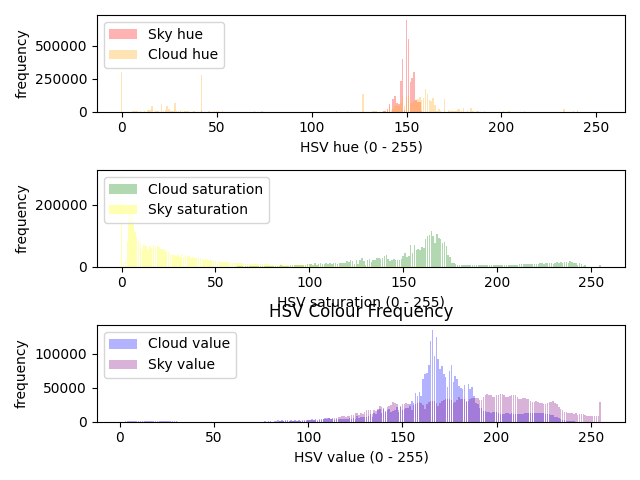
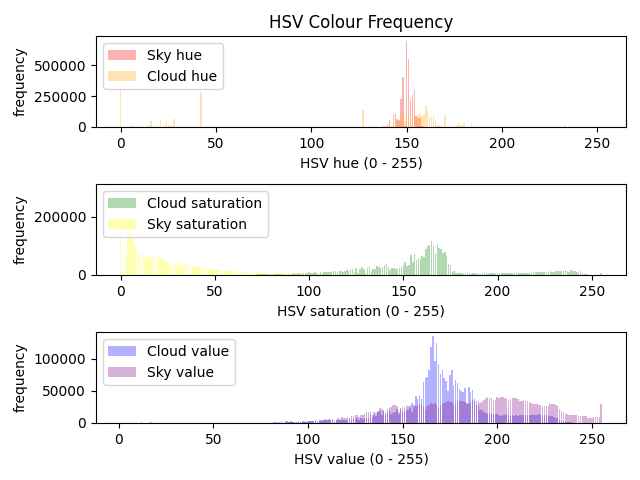
_____

diff --git a/src/scripts/analysis/multichannel_pca.py b/src/scripts/analysis/multichannel_pca.py
@@ -1,15 +1,12 @@
 from sklearn.decomposition import PCA
 from sklearn.preprocessing import StandardScaler
-from sklearn.preprocessing import normalize
 import matplotlib.pyplot as plt
 from concurrent.futures import ProcessPoolExecutor
 
 from config import *
-from extract import process_images, get_tags
-
+from extract import *
 
 sub_graph_dir = f"PCA/{camera}"
-
 
 
 def pca(sky_folder:str, cloud_folder:str, colour_index: int) -> None:
@@ -17,22 +14,15 @@ def pca(sky_folder:str, cloud_folder:str, colour_index: int) -> None:
     Graph the Principle components. 
     The principle components depend on the color channels used.
     """
-    temp = get_tags(colour_index)
-
-    #debug(temp)
-
-    components = temp[0] 
-    colour_tag = temp[1]
-    del temp
-
-    #debug(colour_tag)
-
-    # n_components = len(components)
+    tags = get_tags(colour_index)
+    components = tags[0]
+    colour_tag = tags[1]
+    del tags
 
     # Process images
     data_sky = process_images(sky_folder, colour_index)
     data_cloud = process_images(cloud_folder, colour_index)
-
+    
     # Standardize the data
     scaler = StandardScaler()
     data_sky_standardized = scaler.fit_transform(data_sky)
@@ -52,36 +42,46 @@ def pca(sky_folder:str, cloud_folder:str, colour_index: int) -> None:
     # Get the explained variance ratios
     explained_variance_sky = pca_sky.explained_variance_ratio_
     explained_variance_cloud = pca_cloud.explained_variance_ratio_
-
-    # Delete unneeded ararys
+    
+    # Create Scree Plot for both datasets in a single plot.
+    plot_scree([explained_variance_sky, explained_variance_cloud], [f"Sky - {colour_tag}", f"Cloud - {colour_tag}"], colour_tag)
     del data_cloud, data_sky, pca_cloud, pca_sky, data_sky_standardized, data_cloud_standardized
     collect()
 
     # Print the Eigenvectors
-    debug(f"\nEigenvectors {colour_index} : {colour_tag} - Sky:")
+    debug(f"\nEigenvectors {colour_tag} - Sky:")
     for i in range(len(components)):
         debug(f"{components[i]}: {eigenvectors_sky[0, i]:.4f}")
 
 
-    debug(f"\nPrincipal Component {colour_index} : {colour_tag} - Cloud:")
+    debug(f"\nPrincipal Component {colour_tag} - Cloud:")
     for i in range(len(components)):
         debug(f"{components[i]}: {eigenvectors_cloud[0, i]:.4f}")
     
+    
     # Print the Variance ratios
-    debug(f"\nVariance ratios {colour_index} : {colour_tag} - Sky:")
+    debug(f"\nVariance ratios {colour_tag} - Sky:")
     for i, ratio in enumerate(explained_variance_sky):
         debug(f"Component {i+1}: {ratio:.4f}")
 
 
-    debug(f"\nVariance ratios {colour_index} : {colour_tag} - Cloud:")
+    debug(f"\nVariance ratios {colour_tag} - Cloud:")
     for i, ratio in enumerate(explained_variance_cloud):
         debug(f"Component {i+1}: {ratio:.4f}")
 
     del eigenvectors_cloud, eigenvectors_sky, explained_variance_cloud, explained_variance_sky
-    collect()
 
-    # Create Scatterplot
-    debug(f"\nCreating {colour_index} : {colour_tag} PCA ScatterPlot ...")
+    # Plot the PCA graph
+    # debug(pca_result_cloud[:, 0])
+    plot_pca(colour_tag, pca_result_cloud, pca_result_sky)
+    collect()      
+    
+    
+def plot_pca(colour_tag: str, pca_result_cloud: np.array, pca_result_sky: np.array) -> None:
+    """"
+    Plot PCA Scatterplot 
+    """
+    debug(f"\nCreating {colour_tag} PCA ScatterPlot ...")
     _,ax = plt.subplots(figsize=(10,6))
     ax.scatter(pca_result_sky[:, 0], pca_result_sky[:, 1], c='b', alpha = 0.1, marker = 'X', label = 'sky value')
     ax.scatter(pca_result_cloud[:, 0], pca_result_cloud[:, 1], c='r', alpha = 0.1, marker = 'X', label = 'cloud value')
@@ -90,16 +90,46 @@ def pca(sky_folder:str, cloud_folder:str, colour_index: int) -> None:
     plt.xlabel('PC1')
     plt.ylabel('PC2')
     plt.savefig(f"{root_graph_folder}/{sub_graph_dir}/new_pca_{camera}_{colour_tag}.png")
-    plt.clf
+    plt.clf  
+    
+    
+def plot_scree(explained_variance_list: list[list[float]], labels: list[str], colour_tag: str) -> None:
+    """
+    Plot Scree Plot based on explained variance ratios for multiple datasets.
+    """
+    fig, ax = plt.subplots(nrows = 2, ncols = 1)
+    ax = ax.flatten()
+    
+    explained_variance_sky = explained_variance_list[0]
+    explained_variance_cloud = explained_variance_list[1]
 
-    collect()      
+    ax[0].bar(range(1, len(explained_variance_sky) + 1), explained_variance_sky, label=labels[0])
+    ax[0].set_title("Scree Plot - Sky")
+    ax[0].set_xlabel('Principal Component')
+    ax[0].set_ylabel('Explained Variance Ratio')
+    ax[0].legend(loc = "upper right")
+    
+    ax[1].bar(range(1, len(explained_variance_cloud) + 1), explained_variance_cloud, label=labels[1])
+    ax[1].set_title("Scree Plot - Cloud")
+    ax[1].set_xlabel('Principal Component')
+    ax[1].set_ylabel('Explained Variance Ratio')
+    ax[1].legend(loc = "upper right")
+    
+    fig.tight_layout()
+    plt.legend()
+    plt.savefig(f"{root_graph_folder}/{sub_graph_dir}/new_scree_{camera}_{colour_tag}.png")
+    plt.clf()
+    
+    
 
 
 def main(colour_index: int) -> None:
     
     # PCA performed for RGB, HSV or YCbCr.
-    pca(sky_images_folder, cloud_images_folder, colour_index)
-
+    try:
+        pca(sky_images_folder, cloud_images_folder, colour_index)
+    except Exception as e:
+        debug(e)
     debug(f"Process {colour_index} done.")
 
 

diff --git a/src/scripts/analysis/extract.py b/src/scripts/analysis/extract.py
@@ -63,23 +63,9 @@ def process_images(folder_path:str, colour_index: int = 0) -> np.ndarray:
             continue
     
         im = Image.open(os.path.join(folder_path, filename))
-        keyword = "RGB"
         tag = get_tags(colour_index)[1]
 
-        match colour_index:
-
-            case 0:
-               __process = __process_RGB
-
-            case 1:
-                __process = __process_HSV
-
-            case 2:
-                __process = __process_YBR
-            
-            case _:
-               __process = __process_RGB
-
+        __process = get_func(colour_index)
 
         if tag != 'RGB':
             im = im.convert(tag)
@@ -104,23 +90,9 @@ def raw_images(folder_path:str, colour_index: int = 0) -> np.ndarray:
             continue
     
         im = Image.open(os.path.join(folder_path, filename))
-        keyword = "RGB"
         tag = get_tags(colour_index)[1]
 
-        match colour_index:
-
-            case 0:
-               __process = __process_RGB
-
-            case 1:
-                __process = __process_HSV
-
-            case 2:
-                __process = __process_YBR
-            
-            case _:
-               __process = __process_RGB
-
+        __process = get_func(colour_index)
 
         if tag != 'RGB':
             im = im.convert(tag)
@@ -132,6 +104,11 @@ def raw_images(folder_path:str, colour_index: int = 0) -> np.ndarray:
     return np.vstack(data)
 
 def raw_largest_separations(folder_path:str):
+    """_summary_
+
+    Args:
+        folder_path (str): _description_
+    """
     data = []
     for filename in os.listdir(folder_path):
         if (not filename.endswith(".png")):
@@ -148,4 +125,29 @@ def raw_largest_separations(folder_path:str):
         image = im.convert('YCbCr')
         image = np.array(im)
         non_black_data = __process_YBR(im)
+
+
+def get_func(colour_index: int):
+    """_summary_
+
+    Args:
+        colour_index (int): _description_
+
+    Returns:
+        function: _description_
+    """
+    match colour_index:
+
+            case 0:
+                return __process_RGB
+
+            case 1:
+                return __process_HSV
+
+            case 2:
+                return __process_YBR
+            
+            case _:
+                return __process_RGB
+            
     

diff --git a/src/scripts/analysis/colour_graphs.py b/src/scripts/analysis/colour_graphs.py
@@ -108,9 +108,10 @@ def distributionBarGraphGenerator(x, y, z, components: list[str,str,str], colour
     #print(f"> There are: \n └  {sum(cloudBlues)} cloud datapoints\n └  {sum(skyBlues)} sky datapoints")
 
     debug(f"\n> Creating {colour_tag} Bar Histogram ...")
-    fig1,axes1 = plt.subplots(nrows = 3, ncols = 1)
+    fig,axes1 = plt.subplots(nrows = 3, ncols = 1)
     axes1 = axes1.flatten()
 
+    axes1[0].set_title(f"{colour_tag} Colour Frequency", loc='center')
     axes1[0].bar(x_s[:,0], x_s[:,1], color = 'red', alpha= 0.3, label = f'Sky {components[0]}')
     axes1[0].bar(x_c[:,0], x_c[:,1], color = 'orange',alpha = 0.3,label = f'Cloud {components[0]}')
     axes1[0].set_xlabel(f'{colour_tag} {components[0]} (0 - 255)')
@@ -132,17 +133,16 @@ def distributionBarGraphGenerator(x, y, z, components: list[str,str,str], colour
     axes1[2].legend(loc="upper left")
     del z_s, z_c
     
-    fig1.tight_layout()
-    plt.title(f"{colour_tag} Colour Frequency")
+    fig.tight_layout(pad=1)
+    
     plt.savefig(savepath)
     plt.clf()
-    plt.close("all")
     collect()
     print(f" └ {colour_tag} Bar Graph created.")
     
     
 def __main(colour_index: int) -> None:
-    
+    r
     # PCA performed for RGB, HSV or YCbCr.
     try:
         __plot(sky_images_folder, cloud_images_folder, colour_index)
